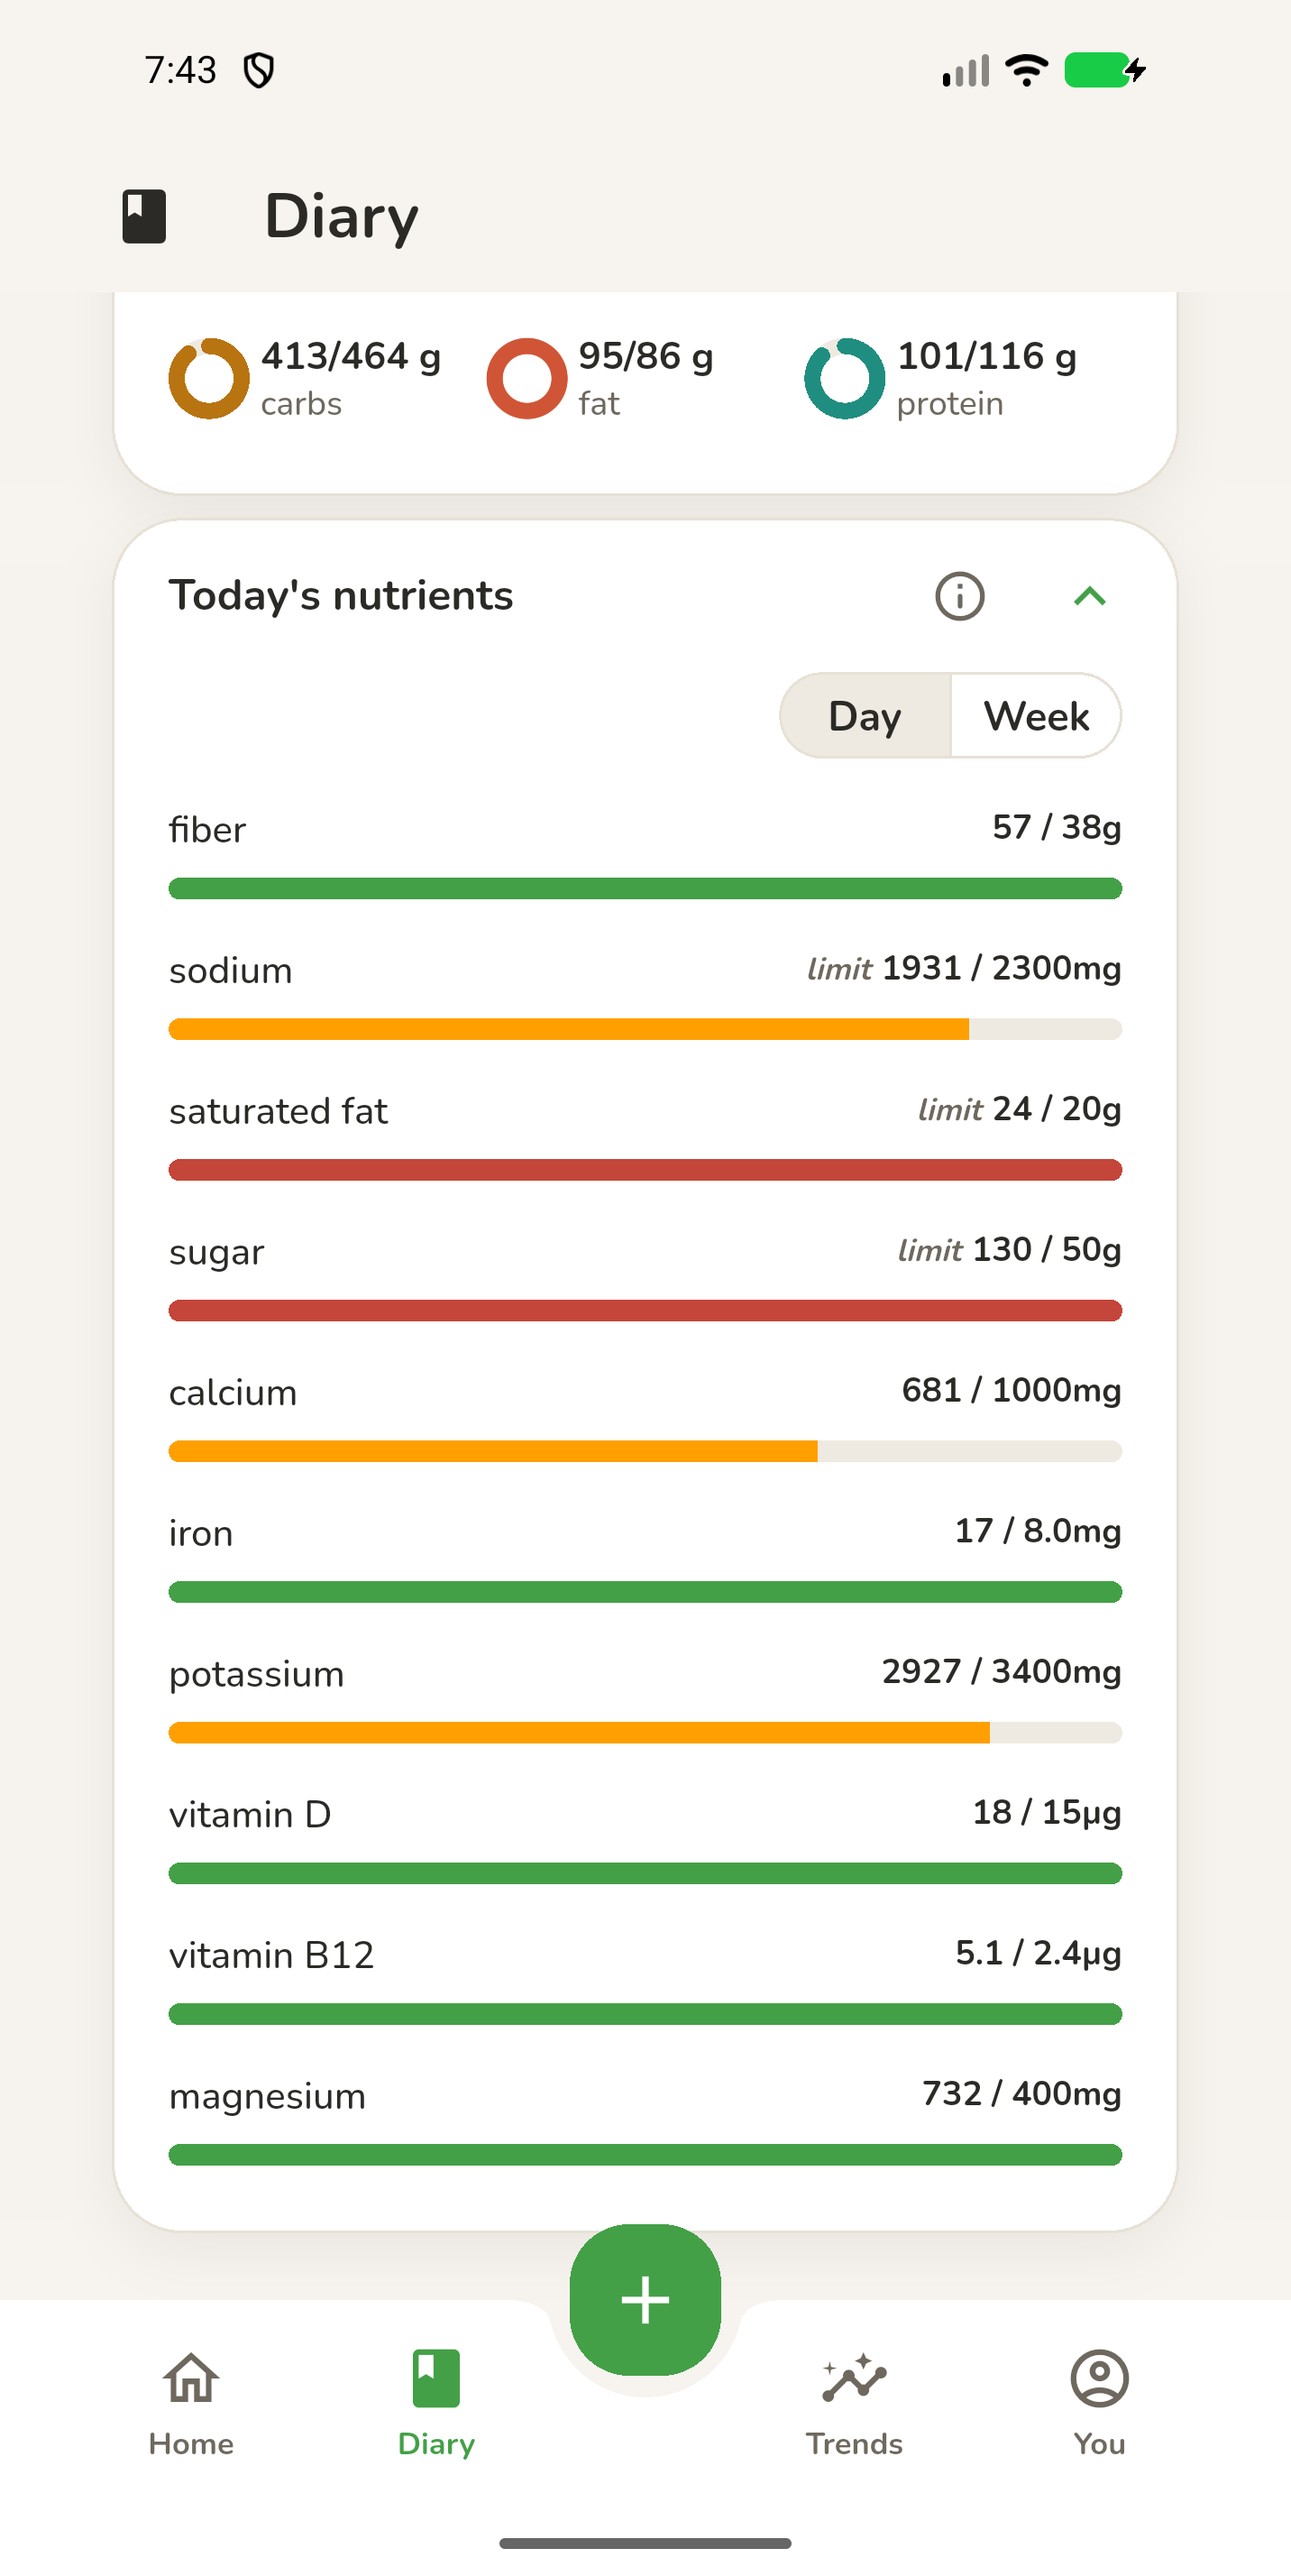
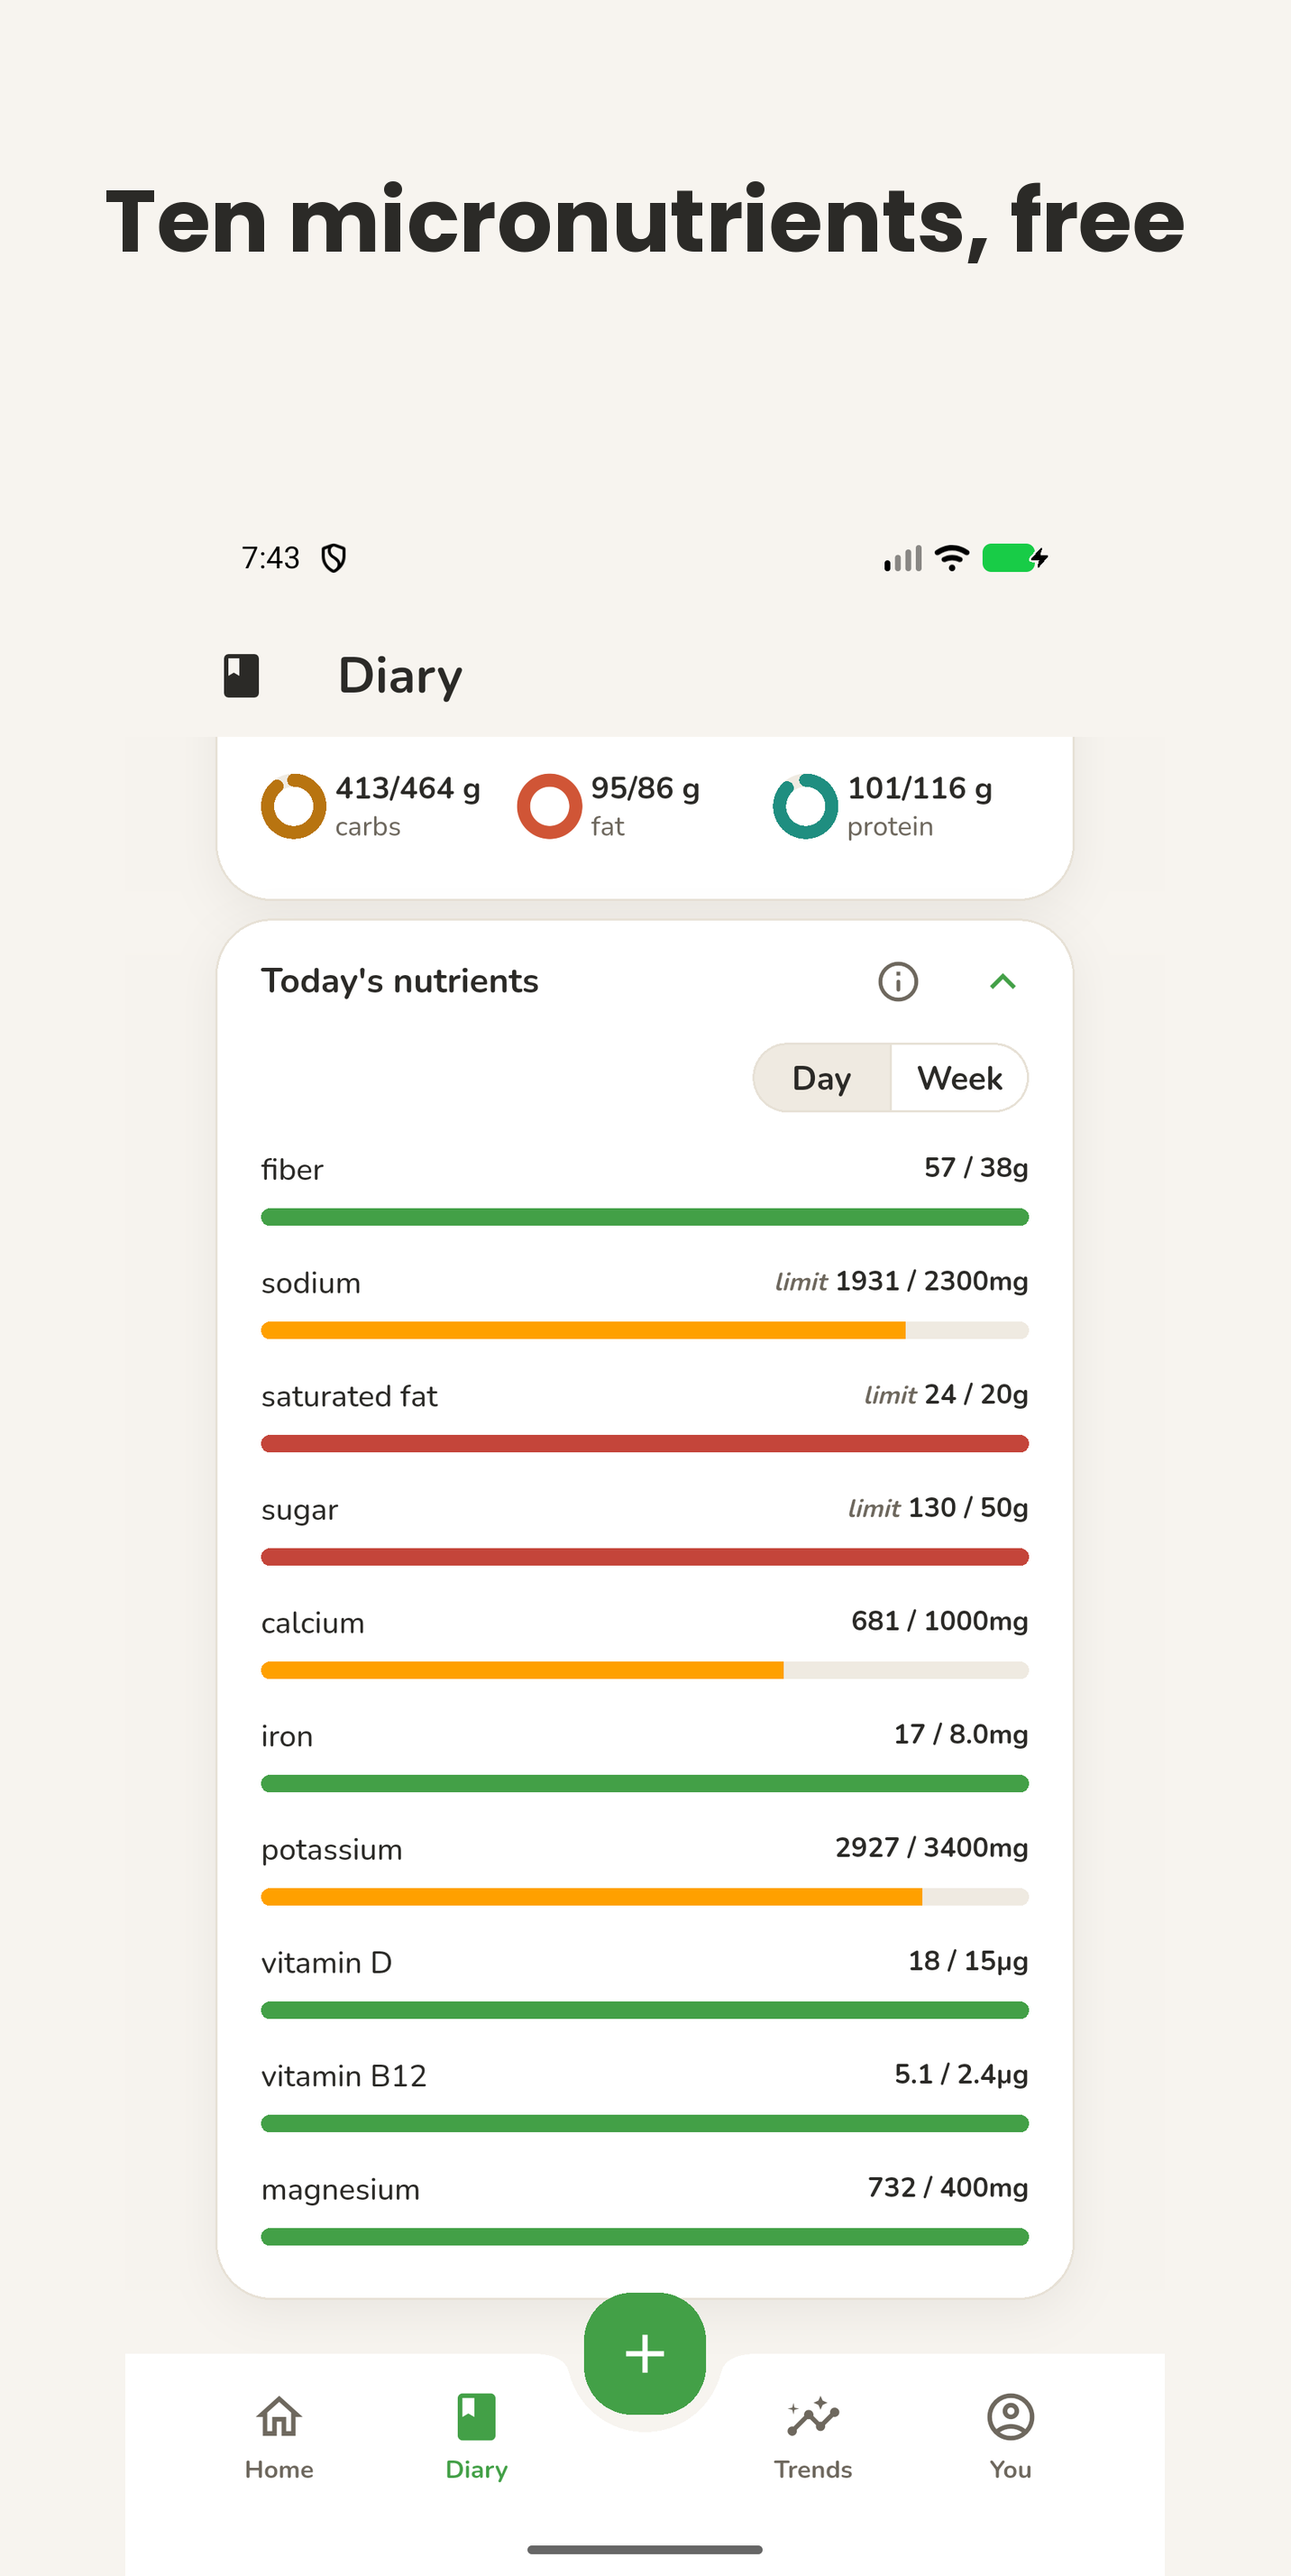
chore(store): bring the store assets on main level with develop
The Play screenshot lane runs under the release-ship environment, whose
branch policy is pinned to main — a dispatch from develop is refused before
the job starts ("Branch develop is not allowed to deploy to release-ship").
But the captioned Play set only ever landed on develop (#1120), after
release/2.3.0 was cut, so main still carries the raw captures. Dispatching
from main as designed would have re-published the very images the pending
listing edit was meant to replace.

Taken from develop, byte-identical, no local edits:

  * the six captioned Play phone screenshots — what the lane needs
  * the twelve App Store screenshots and their README, which main had none
    of, so the App Store half of #1077 has assets to ride 2.3.0
  * promotional_text.txt, which on main still opened "Free forever." — the
    claim #1120 retired

Nothing else in fastlane/metadata differs between the branches: the Play
title, short and full description already match. Checked rather than
assumed.

Six of six pass the lane's own spec guard. deployed/65 exists, so
release-gate will not treat this merge as a deploy.

diff --git a/fastlane/metadata/ios/en-US/screenshots/README.md b/fastlane/metadata/ios/en-US/screenshots/README.md
@@ -1,0 +1,74 @@
+# App Store screenshots — en-US
+
+Twelve captioned assets: six at 1290x2796 (6.9" iPhone) and six at 2064x2752
+(13" iPad), in the order #1072 specifies. Captions come from
+`tools/screenshots/captions.en-US.json` and are composited by
+`tools/screenshots/compose.py`, which is shared with the Play set.
+
+## Where these came from
+
+Captured by hand on a Mac with `xcrun simctl io booted screenshot`.
+
+There was a dispatch-only macOS CI lane for this. It never worked and has been
+removed (#1076): it drove the app with `flutter test`, and `flutter test`
+uninstalls the app when it finishes, so iOS deleted the data container the
+capture had been written into. Three dispatches confirmed it — the app was
+absent from `simctl listapps` while 131 unrelated containers survived, and
+every PNG left on the device belonged to the GeoServices cache.
+
+`simctl io` writes host-side, so nothing has to survive the sandbox, which is
+why the manual route worked first time. Reviving CI capture would mean
+`flutter drive` + `onScreenshot`; that was judged not worth the macOS runner
+budget against a cap of five concurrent macOS jobs (#1016) for a set that is
+re-shot about once a release.
+
+`integration_test/store_screenshots_test.dart` is still here, but for what it
+encodes rather than as a working way to get files: the shot order, the
+finders, the demo fixture, and the assertions that refuse to capture a
+loading or banner-covered frame.
+
+It cannot hand you the images. `takeScreenshot` writes into the app's
+Documents directory — `getApplicationDocumentsDirectory()` — and `flutter
+test` uninstalls the app on exit, so the container goes and the PNGs with it.
+That is the same defect that killed the lane, and it belongs to the test
+rather than to CI: running it by hand hits it too, on an Android emulator as
+readily as on an iOS simulator. Exporting means the `flutter drive` +
+`onScreenshot` conversion above.
+
+## Two frames still owed
+
+- **`03-micronutrients`, both devices.** The card is scrolled to a position
+  where its own header is half-cut by the app bar. On iPhone that slices the
+  `Day | Week` segmented control through the middle of the glyphs; on iPad it
+  leaves two orphaned calendar rows with the month header gone. Both read as
+  a rendering fault rather than a scroll position.
+- **`04-trends`, iPhone only.** The caption is "See the pattern, not the
+  day", and the frame shows a Calories chart that is a flat zigzag along the
+  goal line with no axis labels — no pattern to see. The iPad frame of the
+  same screen scrolls far enough to reach the Weight chart, which has a real
+  curve. Scroll the iPhone capture to match, or change the caption.
+
+The other nine are good as they stand.
+
+## These cannot be uploaded yet
+
+App Store Connect will not accept them against v2.2.0. A released version is
+read-only: every field on the version page reports `disabled`, Save is
+disabled, and Media Manager renders no upload target at all. Screenshots need
+a version in "Prepare for Submission", and that version needs a build before
+it can be submitted — so the listing change ships with the next release
+rather than on its own. This is the answer to #1080.
+
+Play is not like this, which is easy to over-generalise from: a listing-only
+edit there went through to the live listing with no binary
+(`.github/workflows/play-screenshots.yml`).
+
+## One thing to confirm on an editable version
+
+The iPad set matches App Store Connect's **13" Display** slot exactly. The
+iPhone side is less certain: Media Manager for this app lists 6.5", 6.3",
+6.1", 5.5", 4.7", 4" and 3.5" and shows **no 6.9" slot** — checked twice,
+with no "6.9" anywhere in the page text — while 1290x2796 is Apple's 6.9"
+size. Older app records did accept 1290x2796 under the 6.5" slot, so this may
+be a non-issue, but it cannot be settled against a read-only page. Check it
+before assuming the iPhone set drops straight in.
